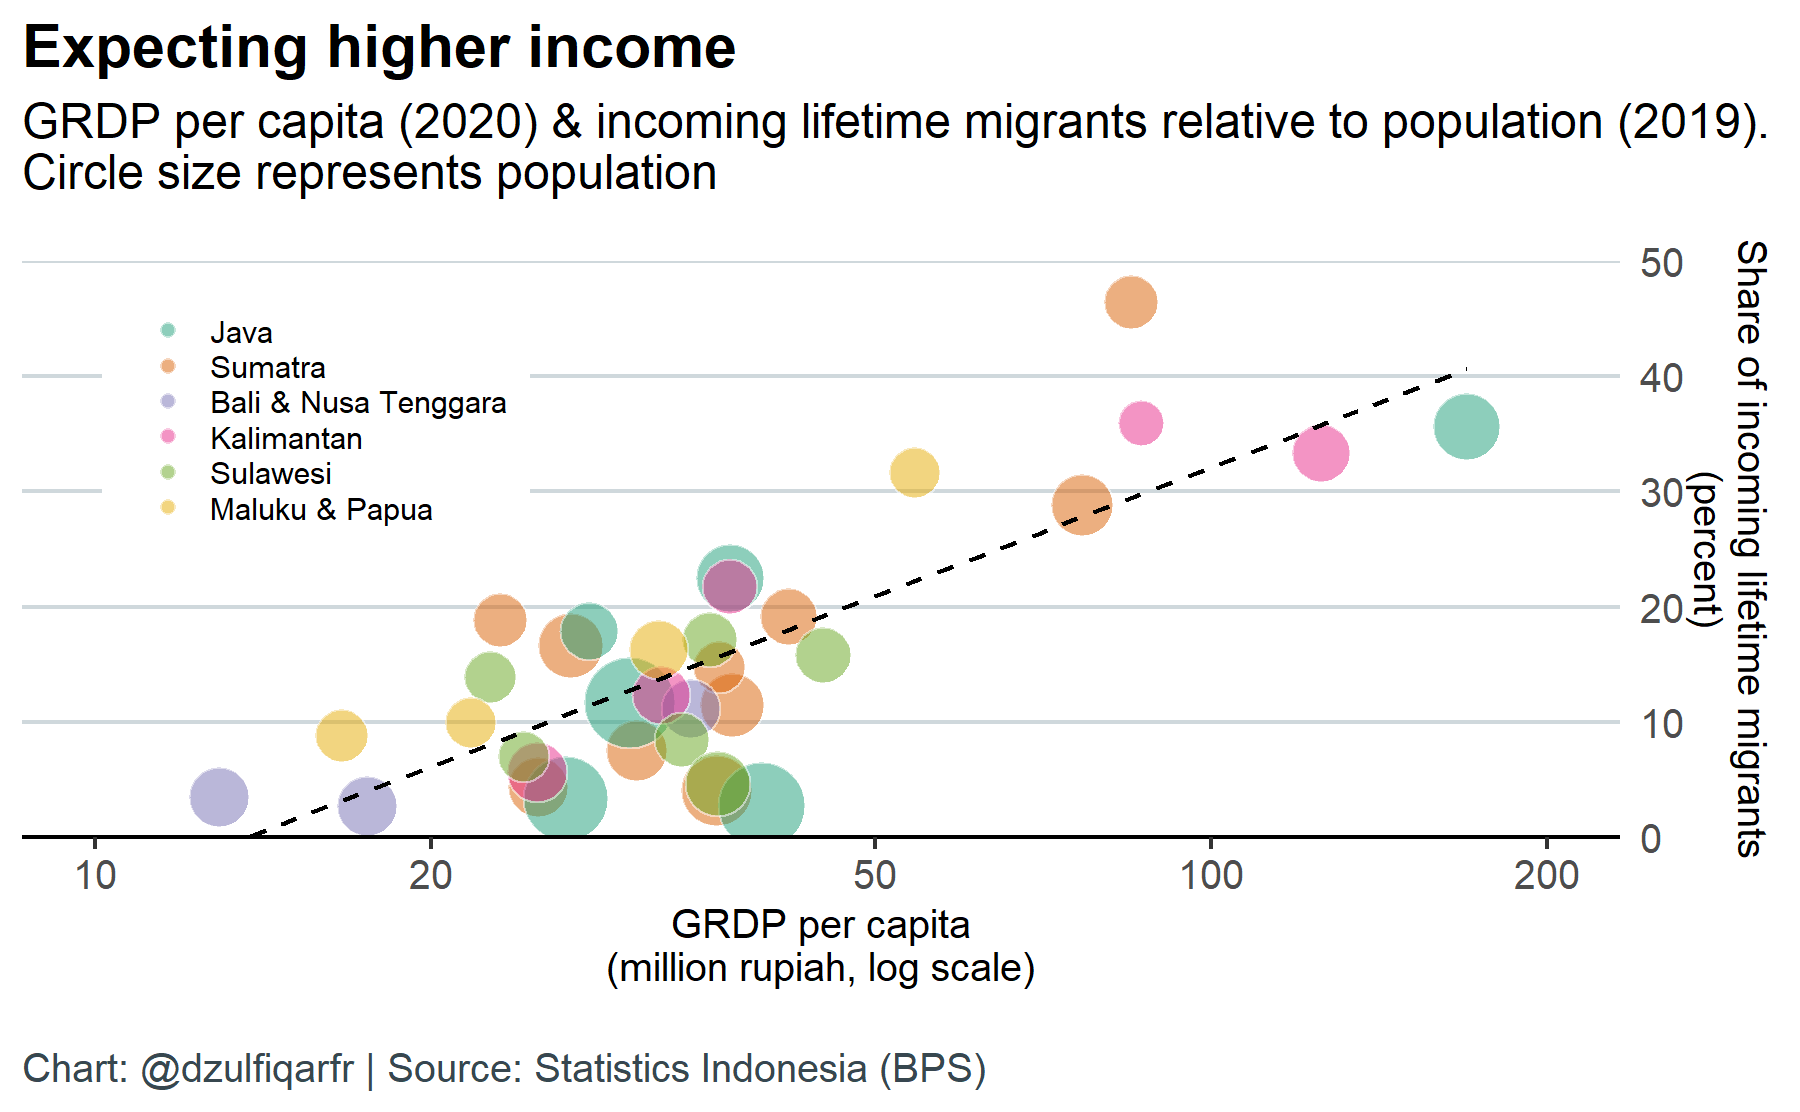
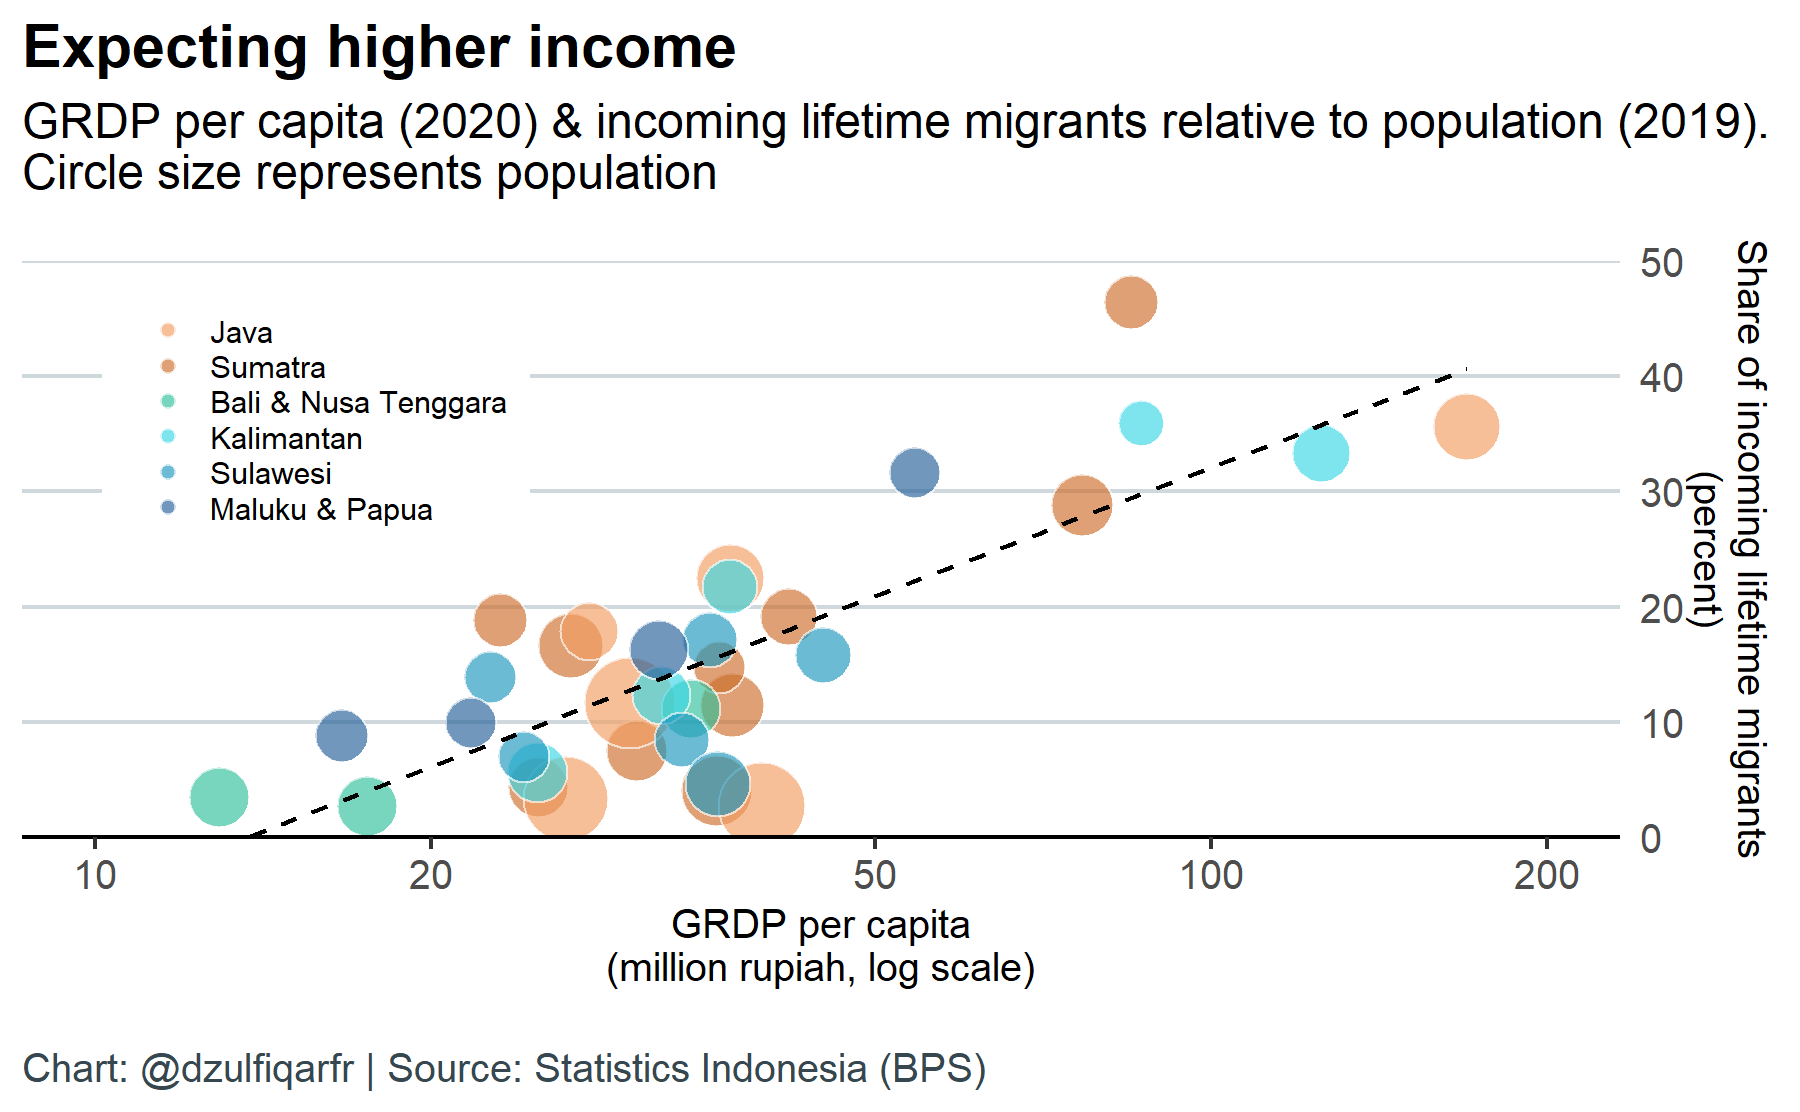
Update readme, plot in population project

diff --git a/README.md b/README.md
@@ -1,13 +1,13 @@
 # Code and data for stories on The Jakarta Post
 
-This repo contains the documentation of code and (backup) data I use for my work at The Jakarta Post. My older works are not well-documented, which makes this repo a non-exhaustive list.
+This repo contains the code and data I use for my work at The Jakarta Post. My older works are not well-documented, which makes this repo a non-exhaustive list.
 
-I mostly use [Datawrapper](https://www.datawrapper.de/) to create interactive web-based charts and [ggplot2](https://ggplot2.tidyverse.org/) in R to create static charts. To extract data from (non-image) pdf documents, I use [Tabula](https://tabula.technology/) either directly or through R.
+I use [Datawrapper](https://www.datawrapper.de/) to create interactive web-based charts and [ggplot2](https://ggplot2.tidyverse.org/) in R to create static charts. To extract data from (non-image) pdf documents, I use [Tabula](https://tabula.technology/) either directly or through R. Regardless, I mostly use R to wrangle and analyze the data.
 
 
 ## Data
 
-The data come mostly from official sources, such as Statistics Indonesia (BPS), Bank Indonesia (BI), the Finance Ministry and the Investment Coordinating Board (BKPM). When available, I use data from international organizations or private institutions.
+The data come mostly from official sources, such as Statistics Indonesia (BPS) and Bank Indonesia (BI). When available, I use data from international organizations or private institutions.
 
 
 ## Selected stories

diff --git a/20210523_population-distribution/README.md b/20210523_population-distribution/README.md
@@ -1,6 +1,6 @@
 Population distribution
 ================
-2021-06-20
+2021-06-21
 
 This is a documentation of how I analyzed population distribution over
 time across Indonesia. I prepared this analysis for
@@ -564,7 +564,7 @@ ggplot(grdpPercap_mig_pop, aes(grdp_perCap, lft_in_prop)) +
     aes(fill = island_group, size = pop),
     pch = 21,
     color = "white",
-    alpha = 0.5
+    alpha = 0.65
   ) +
   geom_smooth(
     method = "lm",
@@ -583,7 +583,16 @@ ggplot(grdpPercap_mig_pop, aes(grdp_perCap, lft_in_prop)) +
     expand = c(0, 0),
     position = "right"
   ) +
-  scale_fill_brewer(palette = "Dark2", direction = -1) +
+  scale_fill_manual(
+    values = c(
+      "#266099",
+      "#1D97BF",
+      "#39D7E6",
+      "#30bf9b",
+      "#CC6D29",
+      "#F29D61"
+    )
+  ) +
   scale_size(range = c(5, 10)) +
   guides(
     size = "none",
